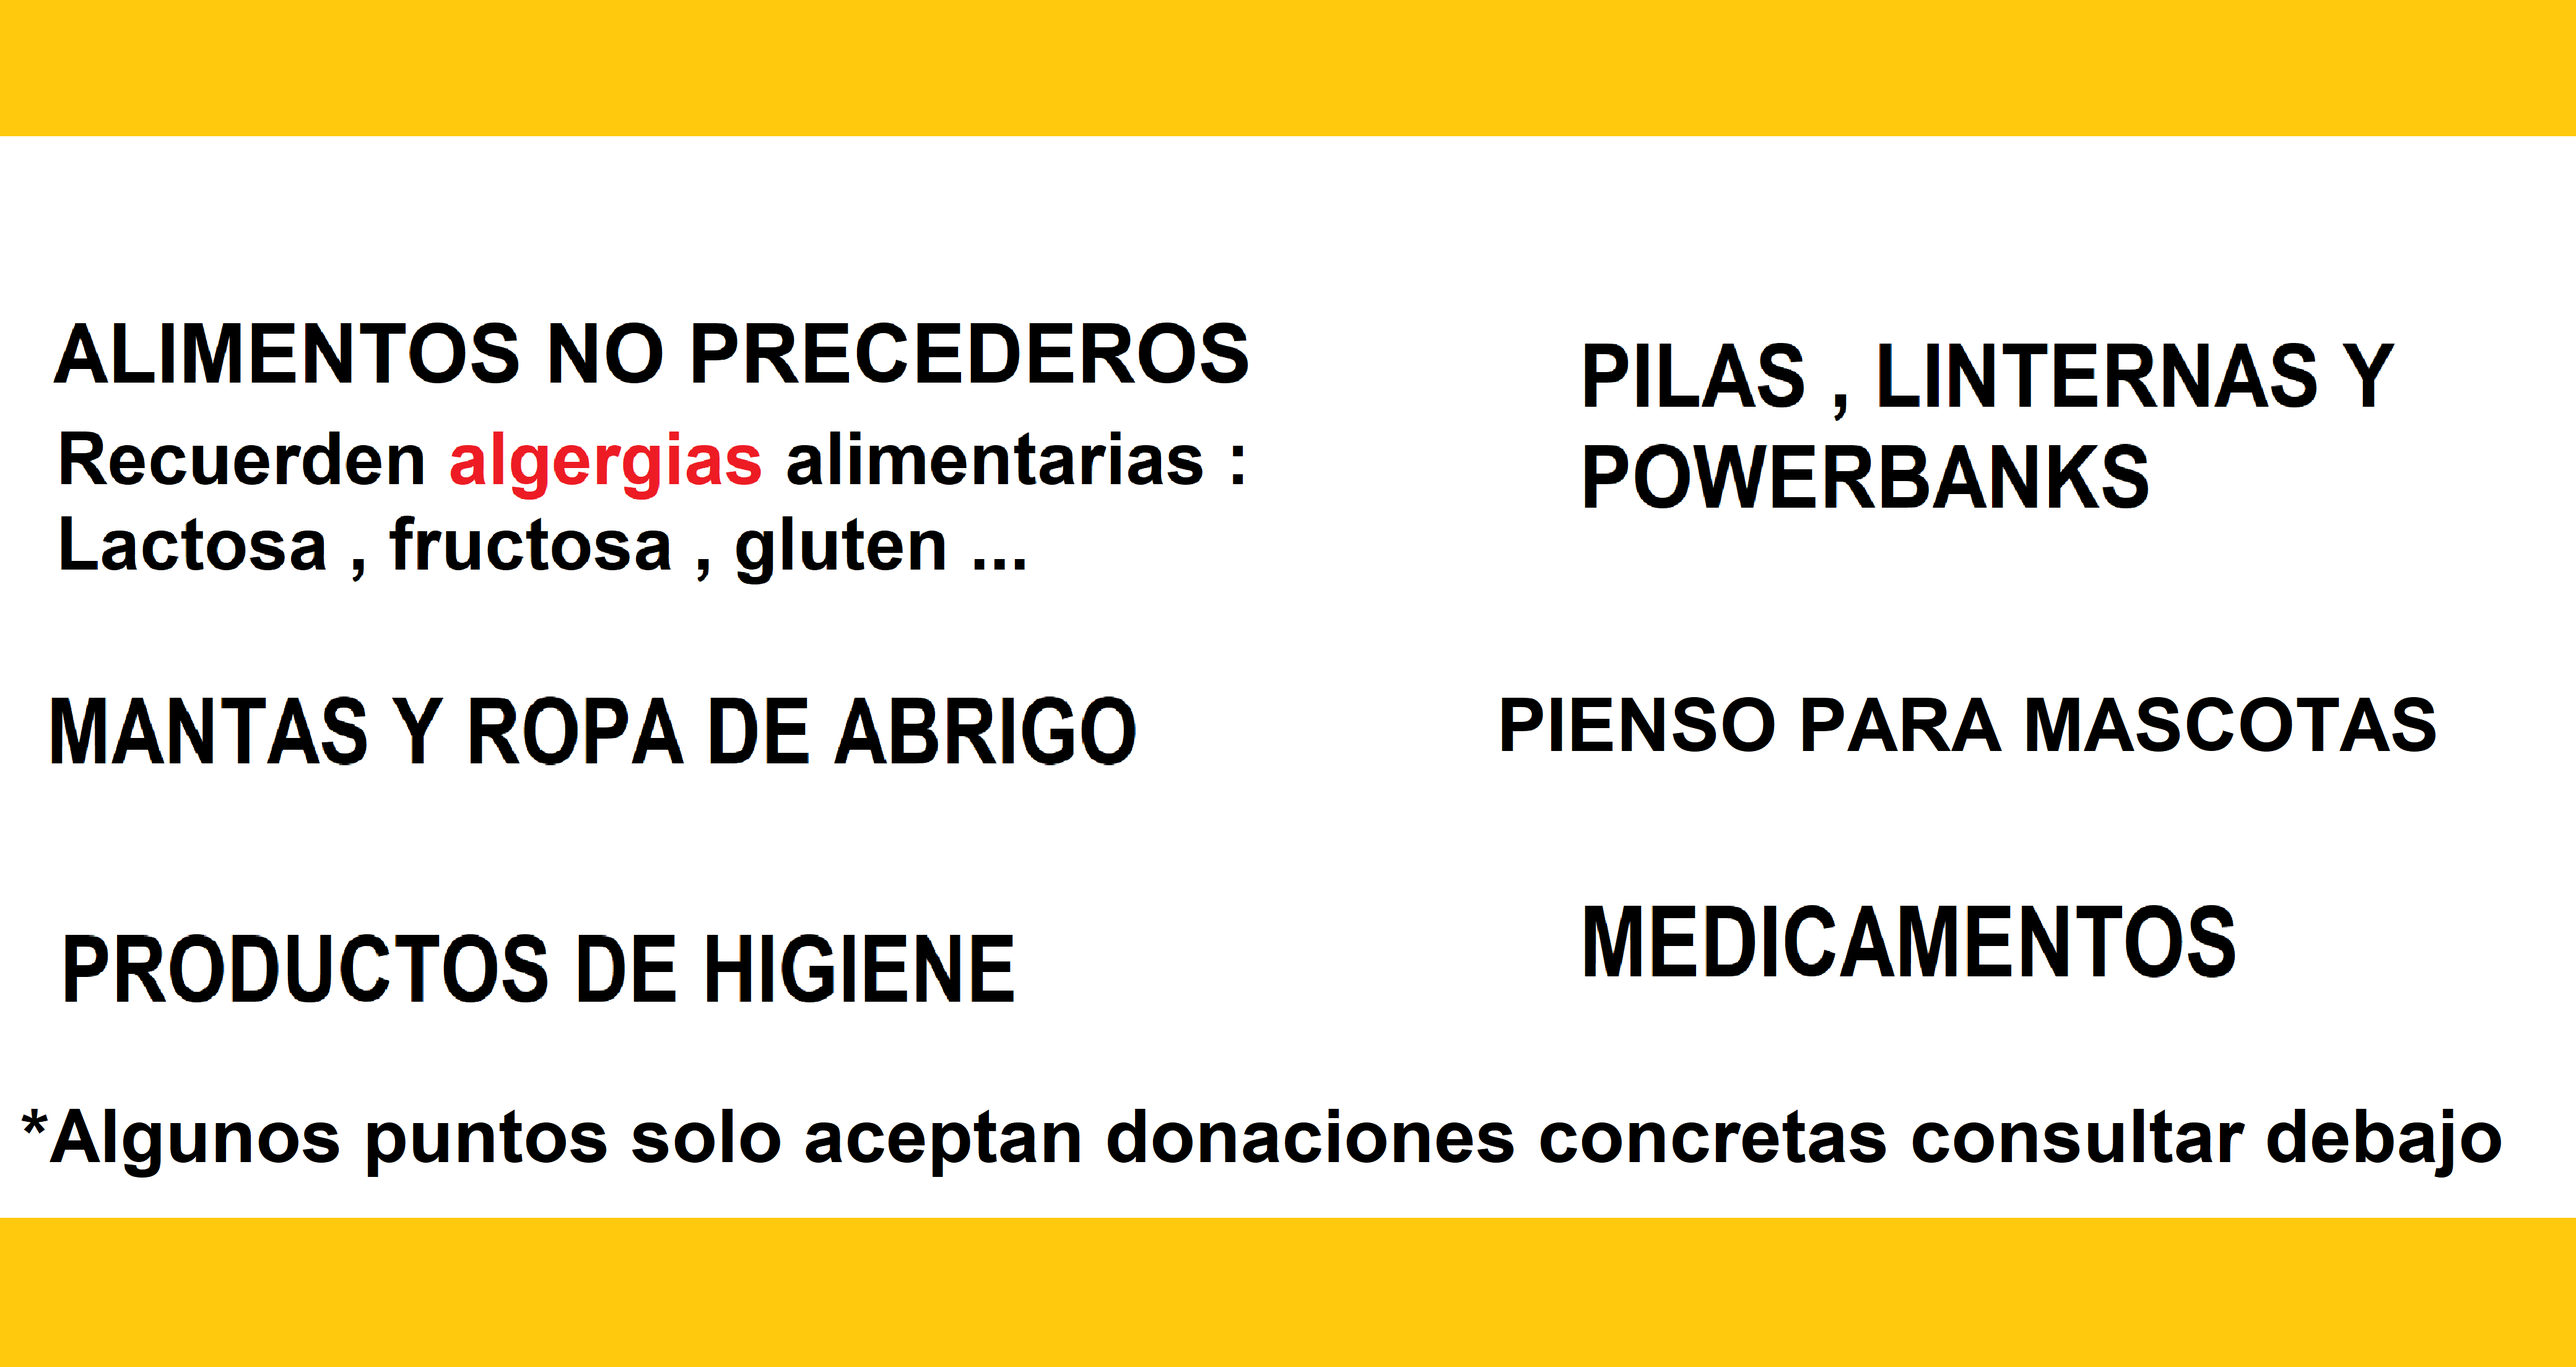
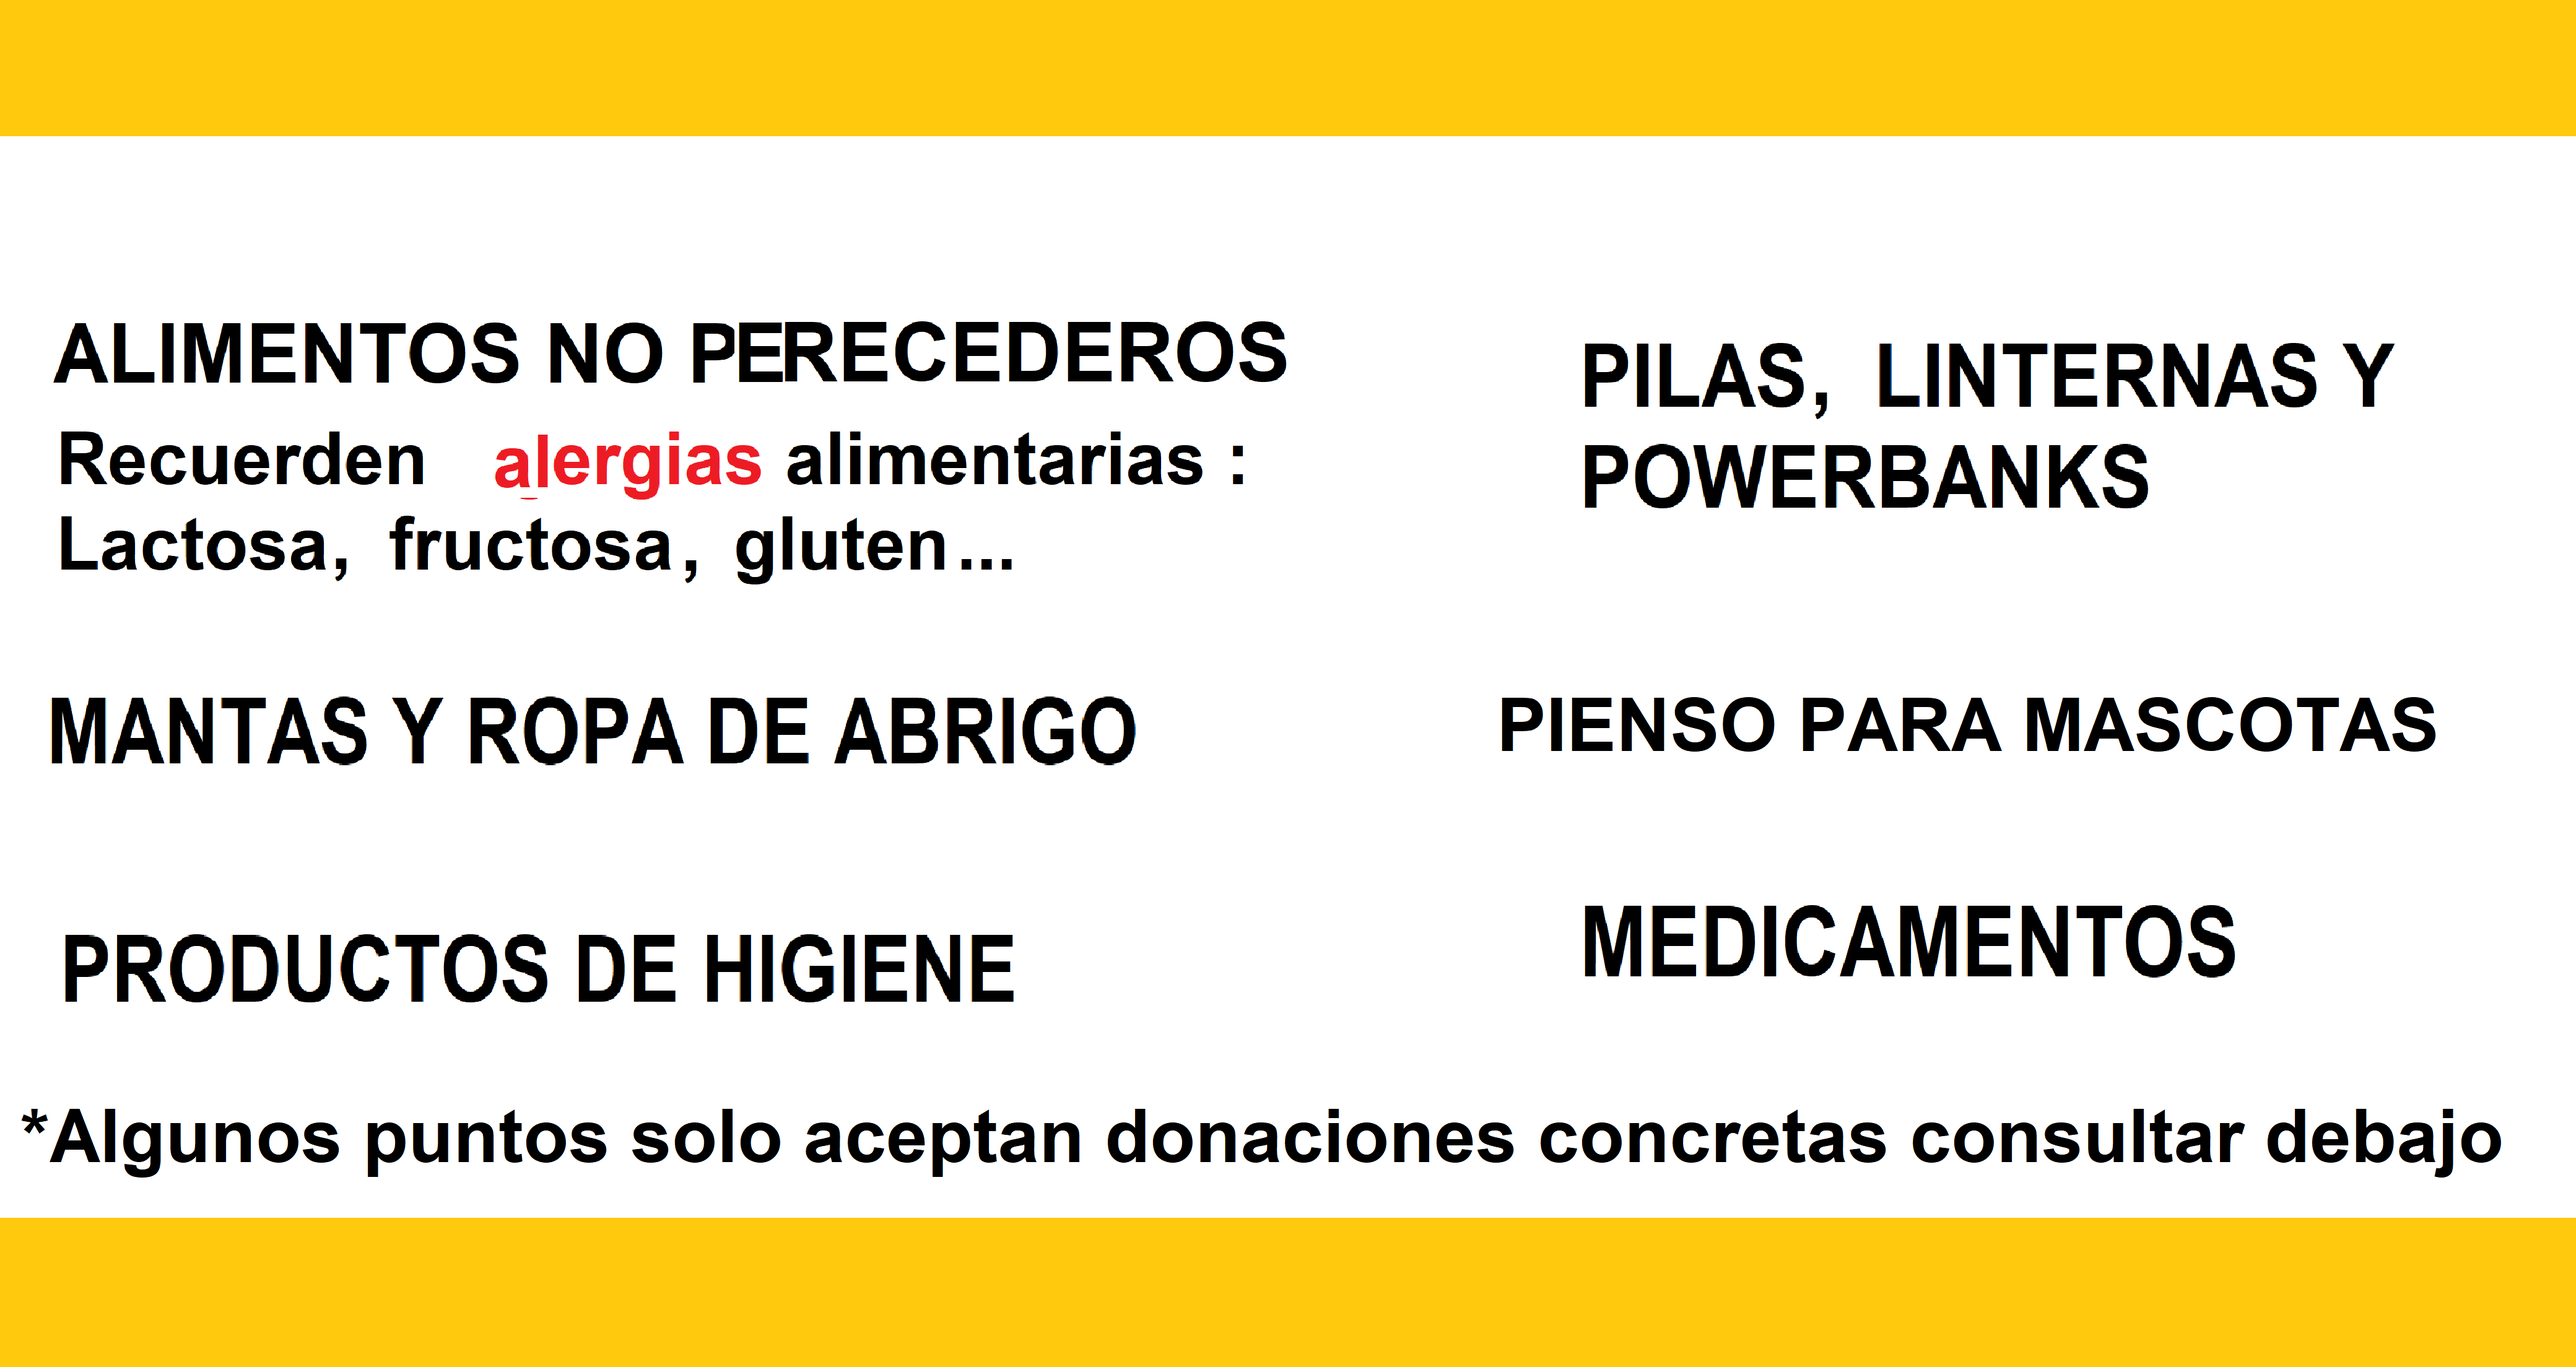
dislexia

diff --git a/index.html b/index.html
@@ -248,7 +248,7 @@
                      <p></p>
                      
                      </div>
-                     <p> Dinfundan si pueden</p>
+                     <p> Difundan si pueden</p>
                      <p></p>
                   </div>
                </div>
